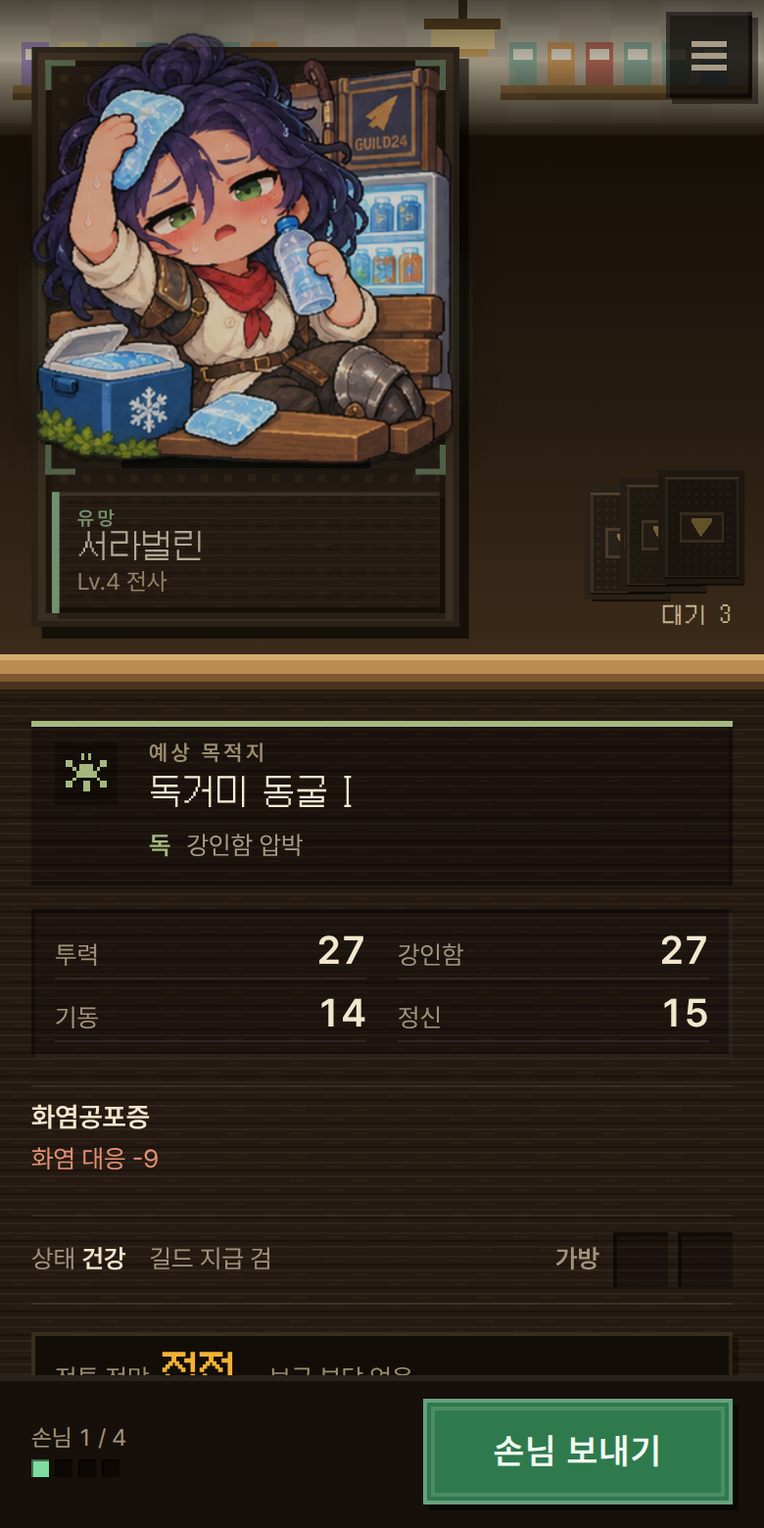
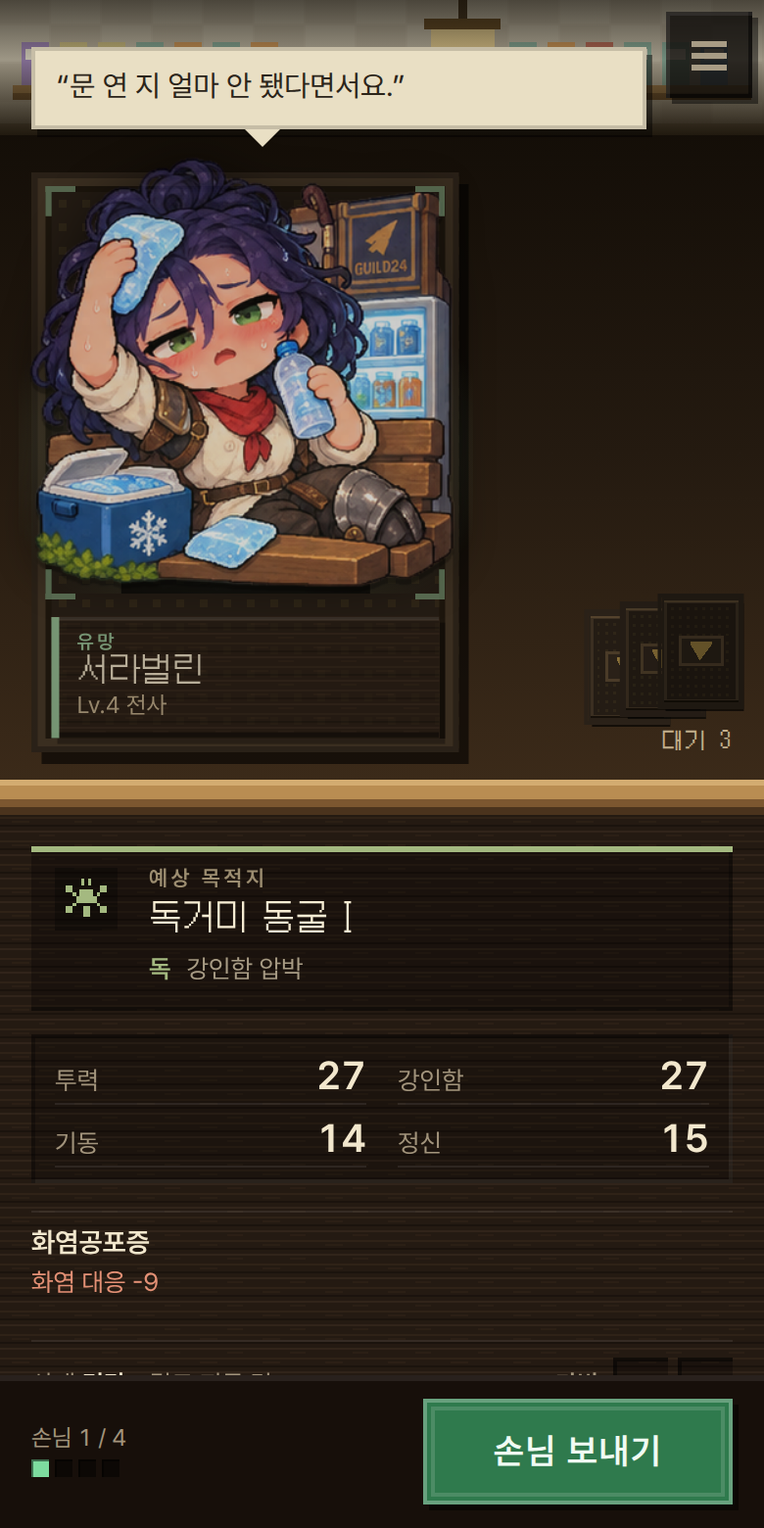
fix(sale): the customer's line reaches the screen, in a balloon on the customer
Two regressions kept the adopted §11 copy off the screen, and a real browser
found both:

- 53 visit and trait lines and 12 purchase reactions were written to run
  state that nothing rendered. Only the refusal was displayed, and only as a
  toast. 65 of 114 lines were dead the moment they were written.
- #toast had a full rule in the pre-adoption style.css and Chunk F dropped it
  when three sheets became one. It was left as an unstyled div in the page
  flow: no fixed position, no hidden state, and .show toggling nothing, so a
  refusal appeared as loose text that never went away.

The line now lives in one balloon anchored to the customer — above the head
on a phone with the tail aimed at the card's centre, beside the head on a
wide screen with the tail aimed back at them. Same element and same copy
either way; only the placement is responsive. It spans the scene, so an
ordinary line is one row and a long one wraps to two, and nothing is clipped,
ellipsised or shrunk to force a row. Two rows is a rule about the writing,
so tests/copy.cjs holds the pools to it rather than a max-height silently
cutting a sentence.

One balloon serves the whole sale: the greeting on arrival, then the purchase
or refusal in the same place, replaced by the next thing this customer says
or by the next customer. No timer removes it, so a reaction stays readable
while the remaining supply slots are decided.

The spoken line gets its own run field. `notice` stays the system channel, so
[…]

diff --git a/dist/systems/save.js b/dist/systems/save.js
@@ -1,4 +1,4 @@
 (function(G){
 const KEY='guild24.save.v5';
-G.Save={error:null,migrate(s){return s; },write(account,run){try{const json=JSON.stringify({version:5,account,run});const previous=localStorage.getItem(KEY);if(previous)localStorage.setItem(KEY+'.backup',previous);localStorage.setItem(KEY,json);this.error=null;return true;}catch(e){this.error='자동저장 불가 — 저장 내보내기로 진행을 보관하세요.';return false;}},read(){if(typeof localStorage==='undefined')return null;if(!localStorage.getItem(KEY)&&!localStorage.getItem(KEY+'.backup')){if(['v1','v2','v3','v4'].some(v=>localStorage.getItem('guild24.save.'+v)))this.error='규칙 개편으로 이전 영업은 이어갈 수 없습니다. 새 점포를 열어 주세요. 이전 저장 원본은 보관됩니다.';return null;}for(const key of[KEY,KEY+'.backup'])try{const raw=localStorage.getItem(key);if(!raw)continue;const s=JSON.parse(raw);if(this.valid(s))return this.migrate(s);}catch(e){}this.error='저장된 진행을 읽지 못했습니다. 원본 저장은 보존됩니다. 설정에서 저장 파일을 가져올 수 있습니다.';return null;},valid(s){try{const a=s?.account,r=s?.run,D=G.DATA;if(s?.version!==5||!a||!Array.isArray(a.unlocked)||!a.unlocked.every(k=>k in D.unlocks)||!Array.isArray(a.discovered)||!a.discovered.every(k=>D.itemBy[k])||!a.progress||!a.knowledge||!a.settings||(a.tutorial!==undefined&&(typeof a.tutorial!=='object'||!a.tutorial))||!Number.isFinite(a.xp)||!Number.isInteger(a.grade)||a.grade<1||a.grade>6)return false;if(r===null)return true;if(!r||!Array.isArray(r.npcs)||!Array.isArray(r.inventory)||!Array.isArray(r.facilities)||!Array.isArray(r.offers)||!Array.isArray(r.queue)||!Array.isArray(r.dungeons)||!Array.isArray(r.results)||!Array.isArray(r.team)||!Array.isArray(r.reportHistory)||!r.stats||!r.daily||!r.pity||!Number.isInteger(r.day)||r.day<1||r.day>30||!Number.isFinite(r.money)||typeof r.seed!=='string'||!Number.isFinite(r.rngState)||!['foundation','morning','order','sell','night','closing','final','end'].includes(r.phase))return false;const ids=r.npcs.map(n=>n.id);if(new Set(ids).size!==ids.length||!r.queue.every(id=>ids.includes(id))||!r.team.every(id=>ids.includes(id))||r.team.length>3)return false;if(!r.npcs.every(n=>typeof n.id==='string'&&typeof n.name==='string'&&D.jobBy[n.job]&&Number.isFinite(n.appearance)&&Number.isFinite(n.level)&&n.stats&&Object.values(n.stats).every(Number.isFinite)&&Array.isArray(n.traits)&&n.traits.every(t=>D.traitBy[t])&&Array.isArray(n.pack)&&n.pack.every(i=>D.itemBy[i])&&Array.isArray(n.history)&&n.history.every(h=>D.itemBy[h.item])&&Array.isArray(n.records)&&Array.isArray(n.refused)&&n.equipment&&Number.isFinite(n.loyalty)&&typeof n.alive==='boolean'))return false;if(!r.inventory.every(st=>D.itemBy[st.item]&&typeof st.id==='string'&&(st.expires===null||Number.isFinite(st.expires)))||!r.offers.every(o=>D.itemBy[o.item]&&Number.isFinite(o.price)&&Number.isFinite(o.quantity))||!r.dungeons.every(d=>D.dungeonBy[d.id]&&Array.isArray(d.hazards)&&d.hazards.every(h=>h in D.hazards)&&Number.isFinite(d.power)&&(d.requiredSupply===undefined||Number.isInteger(d.requiredSupply)&&d.requiredSupply>=0)))return false;if(s.version===5){if(!Number.isInteger(r.cursor)||r.cursor<0||(r.phase==='sell'&&r.cursor>=r.queue.length))return false;if(r.nightCursor!==undefined&&(!Number.isInteger(r.nightCursor)||r.nightCursor<0||r.nightCursor>r.results.length))return false;if(!r.results.every(rep=>ids.includes(rep.npcId)&&D.dungeonBy[rep.dungeon]&&typeof rep.outcome==='string'&&Array.isArray(rep.items)&&rep.items.every(i=>D.itemBy[i])&&Number.isFinite(rep.xp)))return false;if(r.event&&!D.events.some(e=>e.id===r.event.id))return false;if(r.eventSeen!==undefined&&typeof r.eventSeen!=='boolean')return false;if(r.phase==='end'&&typeof r.win!=='boolean')return false;if(r.final&&(!Array.isArray(r.final.families)||r.final.families.length!==2||new Set(r.final.families).size!==2||!r.final.families.every(f=>D.familyTiers[f])||r.final.day!==30||!Array.isArray(r.final.hazards)||!r.final.hazards.every(h=>h in D.hazards)))return false;if(r.finalReport&&(typeof r.finalReport.cleared!=='boolean'||!Array.isArray(r.finalReport.members)||!r.finalReport.members.every(m=>ids.includes(m.npcId))))return false;if(r.special&&(typeof r.special.kind!=='string'||typeof r.special.used!=='boolean'))return false;if(r.relicWindow){const w=r.relicWindow;if(!Array.isArray(w.candidateIds)||new Set(w.candidateIds).size!==w.candidateIds.length||!w.candidateIds.every(id=>D.relicBy[id])||!Array.isArray(w.candidatePrices)||w.candidatePrices.length!==w.candidateIds.length||!w.candidatePrices.every(x=>Number.isInteger(x)&&x>=0)||![0,5,10,15,20,25,30].includes(w.milestoneDay)||!Number.isInteger(w.expiryDay)||typeof w.focusedRevealSeen!=='boolean'||(w.purchased&&!w.candidateIds.includes(w.purchased)))return false;}if(r.cart&&(!Object.values(r.cart).every(q=>Number.isInteger(q)&&q>=0)||Object.keys(r.cart).some(i=>!r.offers[i])))return false;}return true;}catch(e){return false;}},export(account,run){return JSON.stringify({version:5,account,run},null,2);},import(raw){const s=JSON.parse(raw);if(!this.valid(s))throw Error('이 버전의 저장 파일이 아닙니다.');return this.migrate(s);}};
+G.Save={error:null,migrate(s){return s; },write(account,run){try{const json=JSON.stringify({version:5,account,run});const previous=localStorage.getItem(KEY);if(previous)localStorage.setItem(KEY+'.backup',previous);localStorage.setItem(KEY,json);this.error=null;return true;}catch(e){this.error='자동저장 불가 — 저장 내보내기로 진행을 보관하세요.';return false;}},read(){if(typeof localStorage==='undefined')return null;if(!localStorage.getItem(KEY)&&!localStorage.getItem(KEY+'.backup')){if(['v1','v2','v3','v4'].some(v=>localStorage.getItem('guild24.save.'+v)))this.error='규칙 개편으로 이전 영업은 이어갈 수 없습니다. 새 점포를 열어 주세요. 이전 저장 원본은 보관됩니다.';return null;}for(const key of[KEY,KEY+'.backup'])try{const raw=localStorage.getItem(key);if(!raw)continue;const s=JSON.parse(raw);if(this.valid(s))return this.migrate(s);}catch(e){}this.error='저장된 진행을 읽지 못했습니다. 원본 저장은 보존됩니다. 설정에서 저장 파일을 가져올 수 있습니다.';return null;},valid(s){try{const a=s?.account,r=s?.run,D=G.DATA;if(s?.version!==5||!a||!Array.isArray(a.unlocked)||!a.unlocked.every(k=>k in D.unlocks)||!Array.isArray(a.discovered)||!a.discovered.every(k=>D.itemBy[k])||!a.progress||!a.knowledge||!a.settings||(a.tutorial!==undefined&&(typeof a.tutorial!=='object'||!a.tutorial))||!Number.isFinite(a.xp)||!Number.isInteger(a.grade)||a.grade<1||a.grade>6)return false;if(r===null)return true;if(!r||!Array.isArray(r.npcs)||!Array.isArray(r.inventory)||!Array.isArray(r.facilities)||!Array.isArray(r.offers)||!Array.isArray(r.queue)||!Array.isArray(r.dungeons)||!Array.isArray(r.results)||!Array.isArray(r.team)||!Array.isArray(r.reportHistory)||!r.stats||!r.daily||!r.pity||!Number.isInteger(r.day)||r.day<1||r.day>30||!Number.isFinite(r.money)||typeof r.seed!=='string'||!Number.isFinite(r.rngState)||!['foundation','morning','order','sell','night','closing','final','end'].includes(r.phase))return false;const ids=r.npcs.map(n=>n.id);if(new Set(ids).size!==ids.length||!r.queue.every(id=>ids.includes(id))||!r.team.every(id=>ids.includes(id))||r.team.length>3)return false;if(!r.npcs.every(n=>typeof n.id==='string'&&typeof n.name==='string'&&D.jobBy[n.job]&&Number.isFinite(n.appearance)&&Number.isFinite(n.level)&&n.stats&&Object.values(n.stats).every(Number.isFinite)&&Array.isArray(n.traits)&&n.traits.every(t=>D.traitBy[t])&&Array.isArray(n.pack)&&n.pack.every(i=>D.itemBy[i])&&Array.isArray(n.history)&&n.history.every(h=>D.itemBy[h.item])&&Array.isArray(n.records)&&Array.isArray(n.refused)&&n.equipment&&Number.isFinite(n.loyalty)&&typeof n.alive==='boolean'))return false;if(!r.inventory.every(st=>D.itemBy[st.item]&&typeof st.id==='string'&&(st.expires===null||Number.isFinite(st.expires)))||!r.offers.every(o=>D.itemBy[o.item]&&Number.isFinite(o.price)&&Number.isFinite(o.quantity))||!r.dungeons.every(d=>D.dungeonBy[d.id]&&Array.isArray(d.hazards)&&d.hazards.every(h=>h in D.hazards)&&Number.isFinite(d.power)&&(d.requiredSupply===undefined||Number.isInteger(d.requiredSupply)&&d.requiredSupply>=0)))return false;if(s.version===5){if(!Number.isInteger(r.cursor)||r.cursor<0||(r.phase==='sell'&&r.cursor>=r.queue.length))return false;if(r.nightCursor!==undefined&&(!Number.isInteger(r.nightCursor)||r.nightCursor<0||r.nightCursor>r.results.length))return false;if(!r.results.every(rep=>ids.includes(rep.npcId)&&D.dungeonBy[rep.dungeon]&&typeof rep.outcome==='string'&&Array.isArray(rep.items)&&rep.items.every(i=>D.itemBy[i])&&Number.isFinite(rep.xp)))return false;if(r.event&&!D.events.some(e=>e.id===r.event.id))return false;if(r.eventSeen!==undefined&&typeof r.eventSeen!=='boolean')return false;if(r.phase==='end'&&typeof r.win!=='boolean')return false;if(r.final&&(!Array.isArray(r.final.families)||r.final.families.length!==2||new Set(r.final.families).size!==2||!r.final.families.every(f=>D.familyTiers[f])||r.final.day!==30||!Array.isArray(r.final.hazards)||!r.final.hazards.every(h=>h in D.hazards)))return false;if(r.finalReport&&(typeof r.finalReport.cleared!=='boolean'||!Array.isArray(r.finalReport.members)||!r.finalReport.members.every(m=>ids.includes(m.npcId))))return false;if(r.special&&(typeof r.special.kind!=='string'||typeof r.special.used!=='boolean'))return false;if(r.say&&(typeof r.say.text!=='string'||!ids.includes(r.say.npc)))return false;if(r.relicWindow){const w=r.relicWindow;if(!Array.isArray(w.candidateIds)||new Set(w.candidateIds).size!==w.candidateIds.length||!w.candidateIds.every(id=>D.relicBy[id])||!Array.isArray(w.candidatePrices)||w.candidatePrices.length!==w.candidateIds.length||!w.candidatePrices.every(x=>Number.isInteger(x)&&x>=0)||![0,5,10,15,20,25,30].includes(w.milestoneDay)||!Number.isInteger(w.expiryDay)||typeof w.focusedRevealSeen!=='boolean'||(w.purchased&&!w.candidateIds.includes(w.purchased)))return false;}if(r.cart&&(!Object.values(r.cart).every(q=>Number.isInteger(q)&&q>=0)||Object.keys(r.cart).some(i=>!r.offers[i])))return false;}return true;}catch(e){return false;}},export(account,run){return JSON.stringify({version:5,account,run},null,2);},import(raw){const s=JSON.parse(raw);if(!this.valid(s))throw Error('이 버전의 저장 파일이 아닙니다.');return this.migrate(s);}};
 })(globalThis);

diff --git a/dist/systems/shop.js b/dist/systems/shop.js
@@ -35,7 +35,7 @@ class Game{
  eventEligibleDay(day){return day>=3&&day<=29&&![5,10,15,20,25].includes(day);}
  rollEvent(){const s=this.run,fired=this.rng.next()<.35;if(!this.eventEligibleDay(s.day)||!fired)return null;
   const pool=D.events.filter(e=>this.eventEligible(e));return pool.length?this.rng.weighted(pool,e=>e.weight):null;}
- morning(){const s=this.run;s.previousSales=s.daily.sales||0;s.dayFacilities=[...s.facilities];s.bulkUsed=false;s.guaranteeUsed=false;s.phase=s.day===30?'final':'morning';s.daily={revenue:0,spent:0,waste:0,operating:0,cogs:0,overcharge:0,discount:0,subsidy:0,liquidation:0,wasteCost:0,loyalty:0,sales:0,relicSpent:0,commission:0,unknownCosts:0};s.nightCursor=0;s.closing=false;s.cart={};s.rerolled=false;s.rerollCount=0;s.tastingUsed=false;s.results=[];s.team=[];s.notice='DAY '+s.day+' · '+s.branch+'의 아침. 오늘의 던전을 확인하세요.';
+ morning(){const s=this.run;s.previousSales=s.daily.sales||0;s.dayFacilities=[...s.facilities];s.bulkUsed=false;s.guaranteeUsed=false;s.phase=s.day===30?'final':'morning';s.daily={revenue:0,spent:0,waste:0,operating:0,cogs:0,overcharge:0,discount:0,subsidy:0,liquidation:0,wasteCost:0,loyalty:0,sales:0,relicSpent:0,commission:0,unknownCosts:0};s.nightCursor=0;s.say=null;s.closing=false;s.cart={};s.rerolled=false;s.rerollCount=0;s.tastingUsed=false;s.results=[];s.team=[];s.notice='DAY '+s.day+' · '+s.branch+'의 아침. 오늘의 던전을 확인하세요.';
  const expired=s.inventory.filter(x=>x.expires!==null&&x.expires<=s.day);s.daily.waste=expired.length;s.daily.wasteCost=expired.reduce((a,x)=>a+x.cost,0);s.stats.waste+=expired.length;s.inventory=s.inventory.filter(x=>x.expires===null||x.expires>s.day);
  s.npcs.forEach(n=>{if(n.recovery>0){n.recovery--;if(!n.recovery){n.injury=Math.max(0,n.injury-1);n.status=n.injury?'부상':'건강';}}n.fatigue=Math.max(0,n.fatigue-2);n.pack=[];n.refused=[];n.refusalReasons=[];n.pilgrim=false;n.eventBudget=0;});
  if([5,10,15,20,25,30].includes(s.day))this.relicWindow(s.day);if(s.day===30){s.event=null;s.eventSeen=true;s.pilgrimage=0;s.dungeons=[s.final||(s.final=this.makeFinal())];s.queue=[];this.generateOffers();this.save();return;}
@@ -72,7 +72,7 @@ class Game{
  const it=this.rng.weighted(pool,it=>{let w=1;if(it.effects.potion)w*=(ev.potionWeight||1);return w*G.Relics.offerWeight(this,it);});return this.offerFor(it,price);}
  order(index){const s=this.run;if(!['order','final'].includes(s.phase))return false;const o=s.offers[index];if(!o||o.quantity<=0)throw Error('품절된 발주입니다.');if(s.money<o.price)throw Error('발주 자금이 부족합니다.');const units=o.promo?2:1;if(!this.canStock(D.itemBy[o.item],units))throw Error('창고가 가득 찼습니다.');s.money-=o.price;s.daily.spent+=o.price;s.stats.spent+=o.price;o.quantity--;for(let k=0;k<units;k++)this.stock(o.item,1,Math.floor(o.price/units)+(k<o.price%units?1:0));this.save();return true;}
  open(){const s=this.run;if(s.phase!=='order')return;if(Object.values(s.cart||{}).some(q=>q>0))throw Error('선택한 발주를 먼저 확정해 주세요.');s.phase='sell';this.arrive();if(!s.queue.length)this.night();this.save();}
- arrive(){const n=this.current();if(!n)return;n.newToday=!n.introduced;n.introduced=true;n.visits++;const last=n.records.at(-1);this.run.notice=G.Copy.arrive(n,this.run.day,!n.newToday&&n.visits%6===0&&!!last?.events?.length);}
+ arrive(){const n=this.current();if(!n)return;n.newToday=!n.introduced;n.introduced=true;n.visits++;const last=n.records.at(-1);this.run.say={npc:n.id,text:G.Copy.arrive(n,this.run.day,!n.newToday&&n.visits%6===0&&!!last?.events?.length)};}
  current(){return this.run.npcs.find(n=>n.id===this.run.queue[this.run.cursor]);}
  interest(n,it,mode='full'){
  const rule=D.pricing[mode];if(!rule)throw Error('알 수 없는 판매 방식입니다.');
@@ -91,7 +91,7 @@ class Game{
  if(n.refused.includes(key))throw Error('이미 거절한 조건입니다. 다른 가격이나 상품을 골라 주세요.');
  const intent=this.interest(n,it,mode);if(n.money+(n.eventBudget||0)<intent.debit)throw Error('손님의 소지금이 부족합니다.');
  const accepted=this.rng.next()<intent.chance;
- if(!accepted){n.refused.push(key);const reason=intent.burden==='높음'||mode==='overcharge'?'price':intent.need==='낮음'?'need':'choice';n.refusalReasons??=[];n.refusalReasons.push({item:it.id,mode,reason});if(reason==='price')for(const [other,rule]of Object.entries(D.pricing))if(rule.mult>D.pricing[mode].mult&&!n.refused.includes(it.id+':'+other))n.refused.push(it.id+':'+other);s.notice=G.Copy.refuse(n,it.id,reason,s.day);this.save();return false;}
+ if(!accepted){n.refused.push(key);const reason=intent.burden==='높음'||mode==='overcharge'?'price':intent.need==='낮음'?'need':'choice';n.refusalReasons??=[];n.refusalReasons.push({item:it.id,mode,reason});if(reason==='price')for(const [other,rule]of Object.entries(D.pricing))if(rule.mult>D.pricing[mode].mult&&!n.refused.includes(it.id+':'+other))n.refused.push(it.id+':'+other);s.say={npc:n.id,text:G.Copy.refuse(n,it.id,reason,s.day)};this.save();return false;}
  s.inventory.splice(i,1);n.pack.push(it.id);const fromEvent=Math.min(n.eventBudget||0,intent.debit);if(fromEvent)n.eventBudget-=fromEvent;n.money-=intent.debit-fromEvent;if(intent.guarantee)this.run.guaranteeUsed=true;s.money+=intent.price;s.daily.revenue+=intent.price;s.stats.revenue+=intent.price;
  if(Number.isFinite(st.cost)&&!st.costUnknown)s.daily.cogs+=st.cost;else {s.daily.unknownCosts=(s.daily.unknownCosts||0)+1;s.daily.unknownRevenue=(s.daily.unknownRevenue||0)+intent.price;}s.daily.sales=(s.daily.sales||0)+1;s.daily.overcharge+=Math.max(0,intent.price-it.sell);s.daily.discount+=Math.max(0,it.sell-intent.price);
  let loyalty=D.pricing[mode].loyalty;if(this.has('stamp')&&intent.price>0&&loyalty>0)loyalty=Math.round(loyalty*1.5);
@@ -100,7 +100,7 @@ class Game{
  let commission=0;if(this.has('royalCert')&&mode==='overcharge'&&it.rarity>=2)commission+=Math.round(it.sell*.12);if(this.has('supplyCert')&&it.rarity>=2&&(G.Relics.counter(it,G.Relics.known(this))||it.effects.escape||it.effects.revive))commission+=Math.round(it.sell*.08);s.money+=commission;s.daily.commission=(s.daily.commission||0)+commission;
  const before=n.loyalty;this.loyal(n,loyalty);s.daily.loyalty+=n.loyalty-before;
  n.history.push({day:s.day,item:it.id,mode,paid:intent.price,cost:st.cost,costUnknown:!!st.costUnknown,debit:intent.debit,guarantee:intent.guarantee,commission,loyalty:n.loyalty-before});G.Meta.bump(this.account,'revenue3000',intent.price);G.Meta.check(this.account);
- s.notice=G.Copy.buy(n,it.id,mode,s.day);this.save();return true;
+ s.say={npc:n.id,text:G.Copy.buy(n,it.id,mode,s.day)};this.save();return true;
  }
  cartTotal(cart=this.run.cart||{}){return Object.entries(cart).reduce((v,[i,q])=>v+this.relicQuote(Number(i),q,cart),0);}
  validateCart(cart){const s=this.run;if(!['order','final'].includes(s.phase))throw Error('발주 시간이 아닙니다.');let count=0,food=0;for(const [i,q]of Object.entries(cart)){const o=s.offers[i];if(!o||!Number.isInteger(q)||q<0||q>o.quantity)throw Error('발주 수량을 확인해 주세요.');count+=q*(o.promo?2:1);if(['food','fresh','drink'].includes(D.itemBy[o.item].category))food+=q;}

diff --git a/dist/ui/ui.css b/dist/ui/ui.css
@@ -302,7 +302,7 @@ input[type=text],.seed-field{background:#0b0806;border:0;box-shadow:inset 2px 2p
 .p-sale{background:#191208}
 /* ---- layer 1 : who is here --------------------------------------------------- */
 .front{position:relative;flex:0 0 auto;display:grid;grid-template-columns:auto minmax(0,1fr);
- align-items:end;gap:6px;padding:calc(var(--over) - var(--frame) + 8px) var(--gutter) 0;overflow:hidden;
+ grid-template-rows:auto auto;align-items:end;gap:6px;padding:calc(var(--over) - var(--frame) + 8px) var(--gutter) 0;overflow:hidden;
  background:linear-gradient(180deg,#0d0904 0,#241a10 58%,#3b2a19 100%);
  /* ONE deck geometry, declared once. The card's height is content — frame, the payload's
     visible height, the nameplate — so the plate can never reach the artwork. The waiting
@@ -311,7 +311,7 @@ input[type=text],.seed-field{background:#0b0806;border:0;box-shadow:inset 2px 2p
  /* the card also yields to a short viewport, so the counter and the send-off key are
     never pushed off screen: the term below is the height budget left after the counter
     edge, the scroll's own padding and the dock. It never binds on a portrait phone. */
- --cardw:max(88px,min(56vw,232px,calc(90dvh - 226px)));--frame:10px;--plateh:62px;--gapb:9px;--deck:.185;
+ --cardw:max(88px,min(56vw,232px,calc(90dvh - 300px)));--frame:10px;--plateh:62px;--gapb:9px;--deck:.185;
  --artw:calc(var(--cardw)*1.06);--over:max(calc(var(--frame) + 6px),calc(var(--cardw)*.12));
  --cardh:calc(var(--frame)*2 + var(--artw) - var(--over) + var(--gapb) + var(--plateh))}
 .front .backwall{position:absolute;left:0;right:0;top:0;z-index:0;line-height:0}
@@ -334,7 +334,7 @@ input[type=text],.seed-field{background:#0b0806;border:0;box-shadow:inset 2px 2p
 
    Layers, bottom to top: card base -> rarity light -> NPC payload -> contact shadow ->
    rarity bracket -> the nameplate. Nothing is baked into the artwork. */
-.who{position:relative;z-index:2;display:block;width:var(--cardw);max-width:100%;min-width:0;
+.who{grid-row:2;position:relative;z-index:2;display:block;width:var(--cardw);max-width:100%;min-width:0;
  padding:0;border:0;border-radius:0;background:transparent;box-shadow:none;text-align:left}
 .who:hover{background:transparent}
 .who:active{transform:none}
@@ -372,7 +372,45 @@ input[type=text],.seed-field{background:#0b0806;border:0;box-shadow:inset 2px 2p
  overflow:hidden;text-overflow:ellipsis;white-space:nowrap}
 .who .nameplate>span{font:400 12px/1.3 var(--ui);color:#c6b391}
 /* the waiting line: identical backs, nothing but the count is public */
-.line-up{position:relative;z-index:1;display:grid;justify-items:end;gap:5px;padding-bottom:14px}
+/* WHAT THE CUSTOMER SAYS. A lit paper balloon on the dark backwall, above the customer,
+   with a hard bevel and an offset shadow like every other surface in the shop — no blur,
+   no rounded corner. The tail sits over the card's centre so the line belongs to the face
+   under it and not to the room. It spans the scene's full width, so an ordinary line is
+   one row and a long one wraps to a second. Nothing is clipped, ellipsised or shrunk to
+   force a row — a line that needs two rows gets two. Two rows is a rule about the writing,
+   not about this box, and tests/copy.cjs holds the pools to it. */
+.say{grid-row:1;grid-column:1 / -1;position:relative;z-index:3;
+ margin:0 0 16px;padding:9px 13px 10px;
+ /* the menu pin owns the top-right corner; the balloon stops short of it so a long line
+    never runs underneath the button */
+ max-width:min(calc(100% - 44px),560px);
+ font:400 15px/1.5 var(--ui);color:var(--ink);
+ background:var(--paper);
+ box-shadow:inset 0 0 0 2px #00000026,3px 4px 0 #00000073;
+ overflow-wrap:anywhere}
+.say>span{display:block}
+/* the tail: a solid wedge under the balloon, aimed at the card's centre */
+.say:after{content:'';position:absolute;top:100%;left:min(calc(var(--cardw) * .5), 60%);
+ width:0;height:0;border:9px solid transparent;border-top-color:var(--paper);border-bottom:0}
+
+/* SYSTEM MESSAGES ONLY — an unlock, a save, an action that could not be carried out.
+   Never an NPC line: what a customer says belongs to the balloon above their head. */
+#toast{position:fixed;left:50%;z-index:60;
+ /* clear of the dock: the primary action stays visible and legible while a system
+    message is on screen, and the message never sits on top of the button it is about */
+ bottom:calc(92px + env(safe-area-inset-bottom));
+ transform:translateX(-50%) translateY(140%);
+ max-width:min(90vw,420px);padding:10px 16px;
+ font:400 14px/1.45 var(--ui);color:var(--ink);text-align:center;
+ background:var(--paper-2);box-shadow:inset 0 0 0 2px #00000026,3px 4px 0 #00000080;
+ opacity:0;visibility:hidden;
+ transition:transform .18s ease-out,opacity .18s ease-out,visibility 0s linear .18s;
+ pointer-events:none}
+#toast.show{transform:translateX(-50%) translateY(0);opacity:1;visibility:visible;
+ transition:transform .18s ease-out,opacity .18s ease-out,visibility 0s}
+@media (prefers-reduced-motion:reduce){#toast,#toast.show{transition:opacity .18s ease-out}}
+
+.line-up{grid-row:2;position:relative;z-index:1;display:grid;justify-items:end;gap:5px;padding-bottom:14px}
 .line-up .fan{display:flex;align-items:flex-end}
 .line-up .wait{display:block;width:calc(var(--cardw)*var(--deck));height:calc(var(--cardh)*var(--deck));
  margin-left:calc(var(--cardw)*var(--deck)*-.58);
@@ -806,4 +844,13 @@ input[type=text],.seed-field{background:#0b0806;border:0;box-shadow:inset 2px 2p
  .npc-grid,.unlock-grid{grid-template-columns:repeat(3,1fr)}
  .relic-choices{grid-template-columns:repeat(3,1fr)}
  .beat .what{font-size:var(--t-xl)}
+ /* The counter has room here, so the customer gets a bigger card and the balloon moves off
+    the top row to where a person actually talks from: beside the head, tail pointing back
+    at them. Same element, same copy — only the placement is responsive. */
+ --deskcard:300px;
+ .front{--cardw:max(88px,min(56vw,300px,calc(90dvh - 300px)))}
+ .say{grid-row:2;grid-column:2;align-self:start;justify-self:start;
+  margin:calc(var(--over) + 18px) 0 0 14px;max-width:min(46ch,420px)}
+ .say:after{top:22px;left:-9px;
+  border:9px solid transparent;border-right-color:var(--paper);border-left:0;border-bottom-width:9px}
 }

diff --git a/dist/ui/app.js b/dist/ui/app.js
@@ -173,7 +173,7 @@ function saleScreen(){
  return '<div class="stage p-sale">'+menuFab()
  +'<section class="front" data-npc="'+E(n.id)+'" aria-label="계산대 앞">'
   +'<div class="backwall" aria-hidden="true">'+Scene.shelfStrip()+'</div>'
-  +standee(n)+waitingLine(waiting)
+  +speech(n)+standee(n)+waitingLine(waiting)
  +'</section>'
  +'<div class="counter-edge" aria-hidden="true"></div>'
  +'<main class="stage-scroll" id="phase-content" tabindex="-1" aria-label="영업">'
@@ -195,6 +195,17 @@ function waitingLine(waiting){
 // The active customer. Layers, bottom to top: light pool -> contact shadow -> the NPC
 // sticker itself -> the rarity bracket -> the identity plate. Nothing is baked into the
 // artwork and nothing crops it: object-fit contain, standing on the counter line.
+/* The customer's line lives above their head with the tail pointing down at them, so it
+   reads as this person speaking rather than as a system notice. One bubble serves the whole
+   sale: the greeting on arrival, then the purchase or refusal reaction in the same place.
+   It is never dismissed on a timer — it is replaced by the next thing this customer says,
+   or by the next customer, so a reaction can still be read while the remaining slots are
+   being decided. Only lines attributed to the customer at the counter are shown. */
+function speech(n){
+ const said=game.run.say;
+ if(!said||said.npc!==n.id||!said.text)return '';
+ return '<p class="say" role="status" aria-live="polite"><span>'+E(said.text)+'</span></p>';
+}
 function standee(n){
  const art=Scene.npcArt(n),job=D.jobBy[n.job].name,rank=D.npcRarities[n.rarity]||'';
  return '<button class="who r'+n.rarity+'" data-action="npc" data-id="'+n.id+'" aria-label="'+E(n.name)+' Lv.'+n.level+' '+job+' 기록 보기">'
@@ -489,7 +500,7 @@ async function action(el){const a=el.dataset.action,id=el.dataset.id,s=game.run;
  case'tip':game.account.tutorial??={};game.account.tutorial[id]=true;game.save();render();break;
  case'open':game.open();selected=null;render();break;
  case'select':selected=selected===id?null:id;render();sound('button');if(selected)requestAnimationFrame(()=>$('.sale-product.open')?.scrollIntoView({block:'nearest'}));break;
- case'sell':{const success=game.sell(selected,el.dataset.mode);if(success){sound(el.dataset.mode==='overcharge'?'overcharge':el.dataset.mode==='half'?'half':'sale');selected=null;}else{sound('refusal');toast(game.run.notice);}render();break;}
+ case'sell':{const success=game.sell(selected,el.dataset.mode);if(success){sound(el.dataset.mode==='overcharge'?'overcharge':el.dataset.mode==='half'?'half':'sale');selected=null;}else{sound('refusal');}render();break;}
  case'depart':game.depart();selected=null;render();sound(s.phase==='night'?'return':'depart');break;
  case'close':game.closeDay();selected=null;render();if(s.money<0&&s.phase==='closing')setModal('stock');break;
  case'reroll':game.reroll();render();break;
